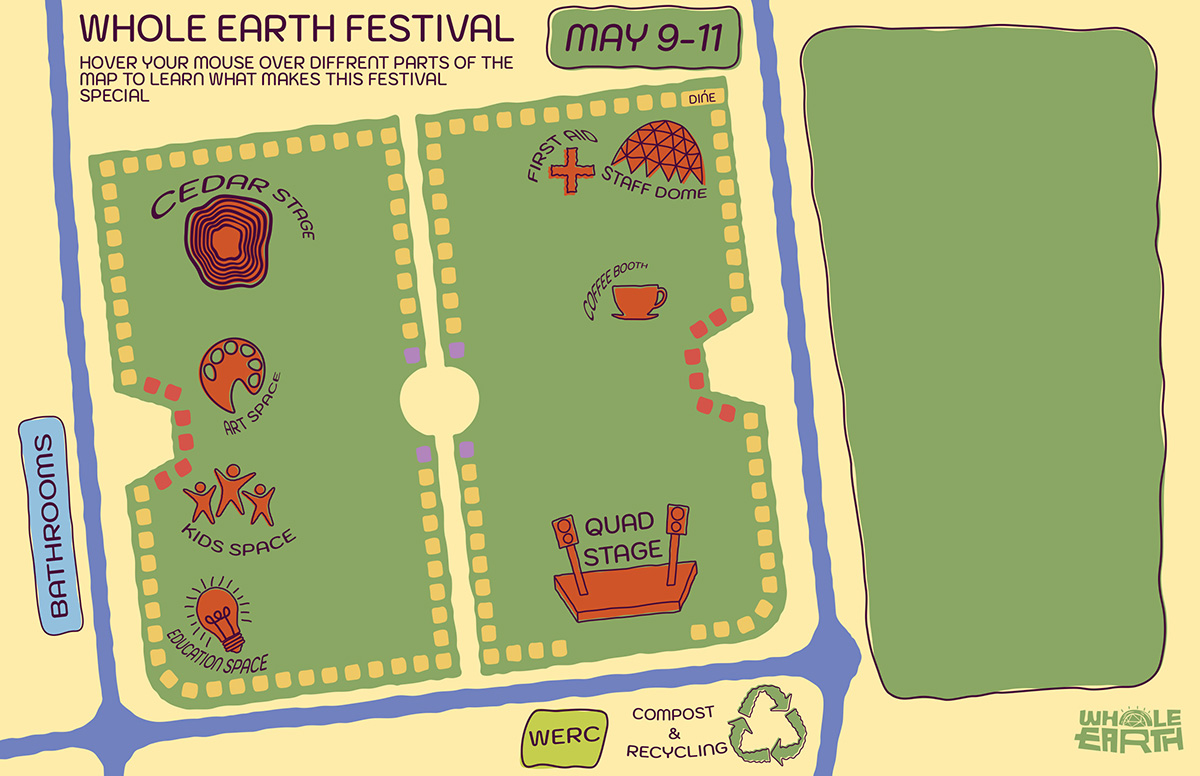
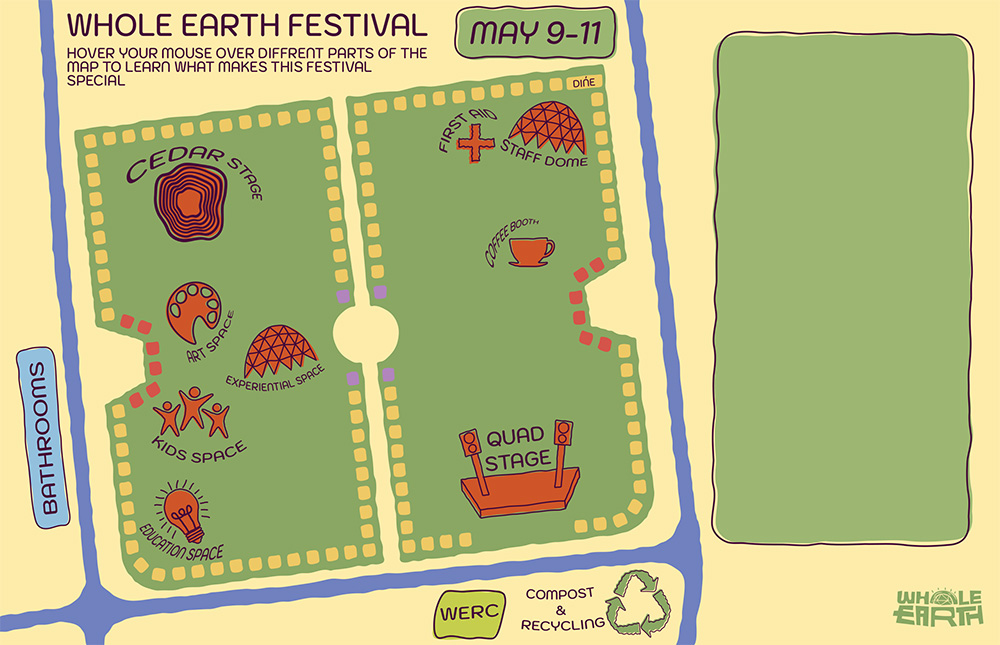
everypic w/ popups

diff --git a/everypicture/V2-final/index.html b/everypicture/V2-final/index.html
@@ -13,28 +13,33 @@
 </head>
 <body>
 
-<img src="images/wefmap.jpg" alt="Map of the whole earth Festival" usemap="#image-map">
+<img src="images/wefmap.jpg" alt="Map of the whole earth Festival" usemap="#image-map" id="map">
 
 <map name="image-map">
-    <area target="" alt="" title="" href="#may" coords="549,33,552,11,569,8,593,11,610,5,623,12,639,10,660,6,670,8,683,9,696,10,711,10,729,8,737,12,741,24,741,34,741,44,740,59,736,65,727,68,713,68,700,69,687,68,669,68,661,68,645,67,633,67,613,68,599,68,580,68,562,68,552,63,547,51" shape="poly">
-    <area target="" alt="" title="" href="#staff-dome" coords="611,163,620,149,630,137,648,125,666,121,680,126,690,136,697,149,704,171,703,186,705,196,683,198,659,196,632,192,612,182,602,177" shape="poly">
-    <area target="" alt="" title="" href="#stages" coords="150,201,179,184,212,174,244,174,269,181,287,190,303,205,312,233,308,219,312,246,308,260,279,281,247,290,215,290,197,280,182,264,166,245,151,226,151,213,164,190" shape="poly">
-    <area target="" alt="" title="" href="#stages" coords="549,531,553,515,567,511,586,510,609,509,629,508,649,505,664,500,678,501,690,508,692,524,699,545,699,562,698,578,695,590,690,603,681,614,670,619,658,619,641,621,623,622,607,622,594,625,579,628,572,623,564,615,558,605,551,594,551,572,550,547" shape="poly">
-    <area target="" alt="" title="" href="#education" coords="185,584,201,571,231,571,252,582,258,598,264,613,267,628,273,649,274,669,256,675,232,676,198,672,182,662,171,650,167,636,174,611" shape="poly">
-    <area target="" alt="" title="" href="#kids" coords="179,492,191,481,203,472,218,463,233,460,249,464,261,470,273,475,283,488,292,501,298,522,302,540,286,551,259,554,228,555,207,551,187,542,181,529,175,508" shape="poly">
-    <area target="" alt="" title="" href="#art" coords="195,356,203,340,216,335,234,333,256,335,271,341,279,352,285,368,285,386,280,401,266,419,246,434,223,441,213,430,200,410,191,388,191,367" shape="poly">
-    <area target="" alt="" title="" href="#compost" coords="520,711,548,703,572,702,596,702,622,702,645,698,672,691,694,691,719,690,734,685,761,680,783,681,800,687,807,702,813,716,813,735,811,744,808,755,804,762,789,769,770,769,748,769,729,770,697,771,661,770,639,770,626,770,617,770,601,771,583,771,562,770,542,770,527,771,515,763,516,740,518,725" shape="poly">
-    <area target="" alt="" title="" href="#food" coords="721,298,729,313,731,321,723,328,711,333,703,340,703,351,704,361,707,376,709,387,717,393,730,395,742,400,740,409,736,421,728,426,713,421,698,415,691,402,685,383,682,365,682,352,683,329,696,316,707,306" shape="poly">
-    <area target="" alt="" title="" href="#crafts" coords="422,120,421,140,423,156,425,171,427,189,429,209,429,221,431,234,434,250,436,274,440,295,440,314,442,333,445,347,447,359,464,361,466,342,462,314,461,288,457,265,454,243,451,226,448,209,448,192,447,167,443,152,444,142,456,141,472,138,487,137,507,135,524,131,544,127,569,124,596,119,617,118,637,112,657,112,672,111,689,111,707,110,709,122,710,135,710,151,714,159,714,174,714,190,717,206,720,222,720,235,723,258,727,281,728,298,733,315,749,313,748,290,746,270,743,257,742,232,738,212,736,197,732,165,730,147,729,128,727,111,727,96,722,78,693,85,670,90,650,91,625,92,601,96,575,102,554,103,535,105,514,108,490,110,470,112,446,118" shape="poly">
+    <area target="" alt="staff-dome" title="" href="#staff-dome" coords="505,135,512,122,521,114,530,107,540,103,548,101,557,100,566,103,574,106,579,115,584,123,588,132,588,143,588,153,588,165,575,169,554,168,537,164,520,161,505,152,499,144" shape="poly" class="open">
+    <area target="" alt="dates may 9-11" title="" href="#may" coords="454,18,461,8,474,8,485,8,500,8,522,8,531,8,544,7,558,7,580,6,599,6,609,6,615,14,615,26,615,38,615,48,611,59,600,59,588,58,568,58,547,56,525,56,496,55,476,54,461,52,454,42" shape="poly">
+    <area target="" alt="food booths" title="" href="#food" coords="600,252,608,267,601,274,591,280,583,288,584,298,586,308,587,322,591,330,598,332,607,332,614,337,614,349,606,355,590,349,575,339,572,319,568,299,568,284,573,271,585,262" shape="poly">
+    <area target="" alt="compost and recycle" title="" href="#compost" coords="429,589,448,587,470,587,490,586,512,585,530,583,551,579,573,578,588,578,606,573,627,567,649,566,664,572,668,581,669,590,672,600,674,612,674,622,673,629,664,634,653,640,638,642,620,641,590,642,558,641,530,639,500,640,465,642,438,641,423,636,423,622,424,605" shape="poly">
+    <area target="" alt="crafts booths" title="" href="#crafts" coords="372,301,386,301,388,283,384,258,381,230,378,197,374,171,374,140,370,119,388,115,418,115,439,110,459,108,491,100,520,97,537,96,555,94,577,92,587,90,590,110,590,125,595,145,594,166,597,184,596,205,597,221,603,243,609,261,623,261,622,238,619,216,616,191,613,159,609,134,607,105,604,87,601,70,581,70,559,73,536,77,508,79,481,81,456,84,431,88,406,91,386,95,364,99,346,102,351,122,351,140,354,161,357,176,359,196,359,213,362,236,364,258,365,282" shape="poly">
+    <area target="" alt="quad and cedar stages" title="" href="#stages" coords="452,434,463,424,477,424,499,422,520,418,535,418,553,414,567,414,577,420,579,436,581,450,582,462,582,474,583,485,583,496,575,505,561,513,533,516,503,518,481,519,472,517,463,498,458,480,454,455" shape="poly">
+    <area target="" alt="quad and cedar stages" title="" href="#stages" coords="129,159,143,151,174,145,209,143,232,147,252,161,258,174,264,190,262,205,245,226,218,245,198,245,178,245,162,237,146,218,133,199,123,180" shape="poly">
+    <area target="" alt="education and Experiential space" title="" href="#education" coords="137,532,144,541,149,552,161,557,172,560,200,565,220,562,230,551,228,529,220,510,213,496,202,485,187,475,171,477,152,484,141,501,134,515,136,524" shape="poly">
+    <area target="" alt="education and Experiential space" title="" href="#education" coords="222,374,230,361,240,348,252,332,273,322,292,323,307,332,319,346,326,359,330,372,320,379,301,387,282,394,267,393,248,393,233,390,223,383" shape="poly">
+    <area target="" alt="art space" title="" href="#art" coords="159,308,163,291,173,280,188,278,201,280,213,283,221,293,228,300,236,307,236,320,232,329,223,343,208,358,189,363,177,349,165,326" shape="poly">
+    <area target="" alt="kids space" title="" href="#kids" coords="148,435,150,413,157,399,168,391,189,382,206,384,224,395,238,407,244,421,251,450,239,463,211,468,186,468,161,460,153,448" shape="poly">
 </map>
 
+
+<section id="overlay" class="hidden">
     <article id="staff-dome">
-        <h2>Nonviolence and Chaos Control</h2>
         <img src="images/staff-dome.jpg" alt="staff-dome" class="space-pic">
+        <h2>Nonviolence & Chaos Control</h2>
         <p>This festival wouldn’t be what it is without all of the awesome people that work tirelessly to make this event happen! All the hands that keep this festival moving attend a Nonviolence meeting.
         One of the many things that make this festival special is the philosophy of nonviolence. We learn, practice, and use the art of active listening and respect to resolve disagreements in a manner that ends well for all parties. Whole Earth rejects the dominant mindset in American culture, that an end to contention results in a victor and vanquished. Nonviolent conflict resolution is a fun and useful practice to not only run a festival but also live life. 
         </p>
+        <button class="close">close</button>
     </article>
+</section>    
 
     <article id="may">
         <h2>Love your Mother</h2>
@@ -55,19 +60,19 @@
     </article>
 
     <article id="crafts">
-        <h2>Handmade is just better</h2>
+        <h2>Handmade is better</h2>
         <img src="images/crafts.jpg" alt="craft vendor" class="space-pic">
         <p>We have around 130 craft booths lining the quad during the festival. When you're not dancing to the music or enjoying a vegan corn dog, take a walk around and check out all the vendors selling their handmade wares. There are a range of artisan products, tie-dye, ceramics, jewelry, natural fiber clothing, and so so so much more!</p>
     </article>
 
     <article id="stages">
-        <h2>Music and Groove</h2>
+        <h2>Music & Groove</h2>
         <img src="images/stages.jpg" alt="dancing" class="space-pic">
         <p>We have 2 stages on the quad during the festival, Quad and Cedar stage. Both provide ample entertainment for festival goers throughout the day and into the night. Enjoy a range of musical performances, dance groups, and speakers, check out the schedules in the program to see the exact times.</p>
     </article>
 
     <article id="education">
-        <h2>Experiential and Education Spaces</h2>
+        <h2>Experiential & Education</h2>
         <img src="images/education.jpg" alt="Experiential dome" class="space-pic">
         <p>The Whole Earth Festival is more than just skipping around and dancing. We also provide spaces to experience, educate, and grow. The experiential dome is an area where people can enjoy a range of events; yoga, open mics, meditation, chickens!, poetry, and so much more. Education has booths and speakers throughout the day. Check out environmental groups, identity based groups, and listen to professors speak.</p>
     </article>

diff --git a/everypicture/V2-final/styles.css b/everypicture/V2-final/styles.css
@@ -2,22 +2,51 @@ body{
     background-color: rgb(255, 234, 170);
     font-family: "Nunito", serif;
 }
-#map{
-    position: absolute;
-    top: 0;
-    left: 0;
-    /* width: ; */
-}
 .space-pic{
-    width: calc(25%);
+    width: calc(90%);
+    margin: auto;
+    display: block;
+}
+#staff-dome{
+    padding: 2px;
 }
 p{
-    /* font */
     color: rgb(32, 2, 31);
 }
 h2{
-    color: rgb(32, 2, 31);   
+    color: rgb(32, 2, 31); 
+    font-size: 17px;
+    line-height: 1;  
 }
-#image-map{
-    color: rgba(0, 255, 255, 0.342);
+/* #image-map :hover{
+    background-color: rgba(176, 240, 240, 0.934);
+} */
+#map{
+    background-color: aquamarine;
+}
+
+
+/* pop up info */
+#overlay article{
+    position: absolute;
+    top: 275px;
+    left: 850px;
+    width:250px;
+    /* height: 80vh; */
+    padding: 7px;
+    box-sizing: border-box;
+    /* background-color: #ffffff9c; */
+    transform: translate(-50%, -50%);
+    overflow-y: scroll;
+}
+p{
+    font-size: 11px;
+}
+.hidden {
+    visibility: hidden;
+    opacity: 0;
+}
+.showing {
+    visibility: visible;
+    opacity: 1;
 }

diff --git a/everypicture/V2-final/script.js b/everypicture/V2-final/script.js
@@ -1,0 +1,18 @@
+(function(){
+    'use strict';
+    console.log('reading js');
+    document.querySelector('.open').addEventListener('click', function(event){ 
+        event.preventDefault();
+        document.querySelector ('#overlay').className = 'showing';
+    });
+    document.querySelector('.close').addEventListener('click', function(event){  
+        event.preventDefault();
+        document.querySelector ('#overlay').className = 'hidden';
+    });
+})();
+
+document.addEventListener('keydown', function (event){
+    if(event.key === 'Escape'){
+        document.querySelector('#overlay').className = 'hidden';
+    }
+});
